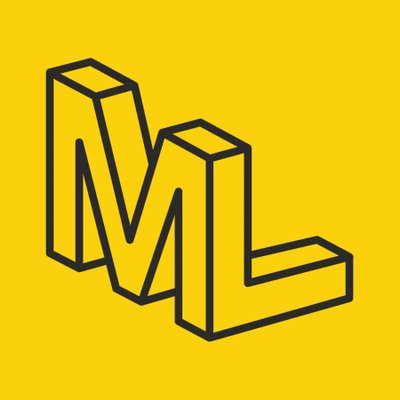
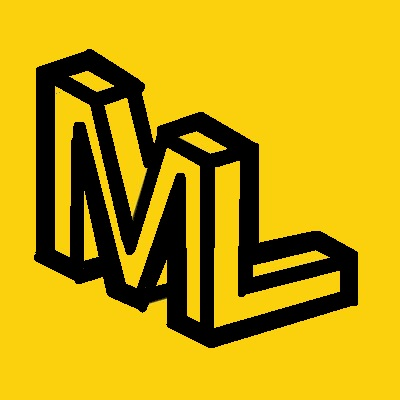
thicken flavicon

Changed region(s): [[0.06, 0.12, 0.9, 0.87]]

diff --git a/src/index.html b/src/index.html
@@ -14,7 +14,7 @@
 
     <title>Hire Me!</title>
     <link rel = "icon" href =
-            "https://pbs.twimg.com/profile_images/810049283311341570/LuR4yJay_400x400.jpg"
+            "https://i.imgur.com/alUL2pw.jpg"
           type = "image/x-icon">
 </head>
 <div class="topnav">
